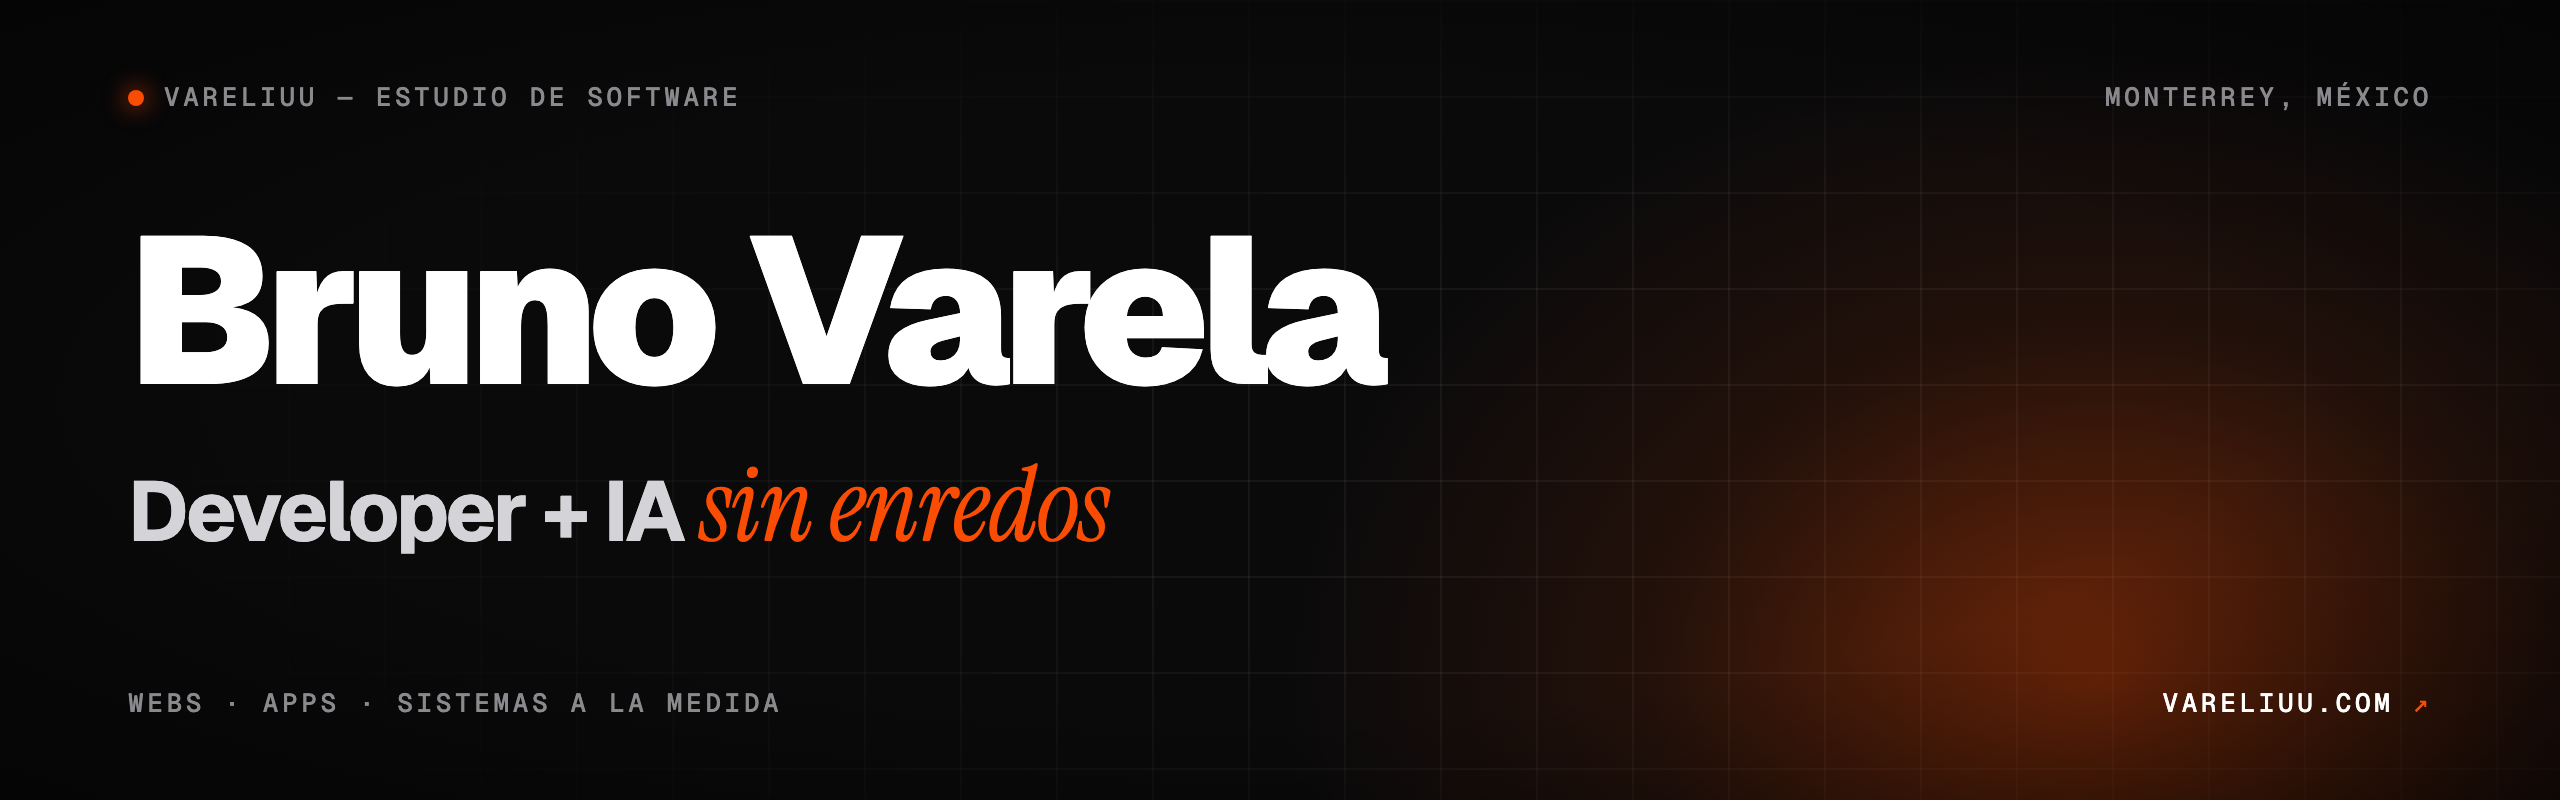
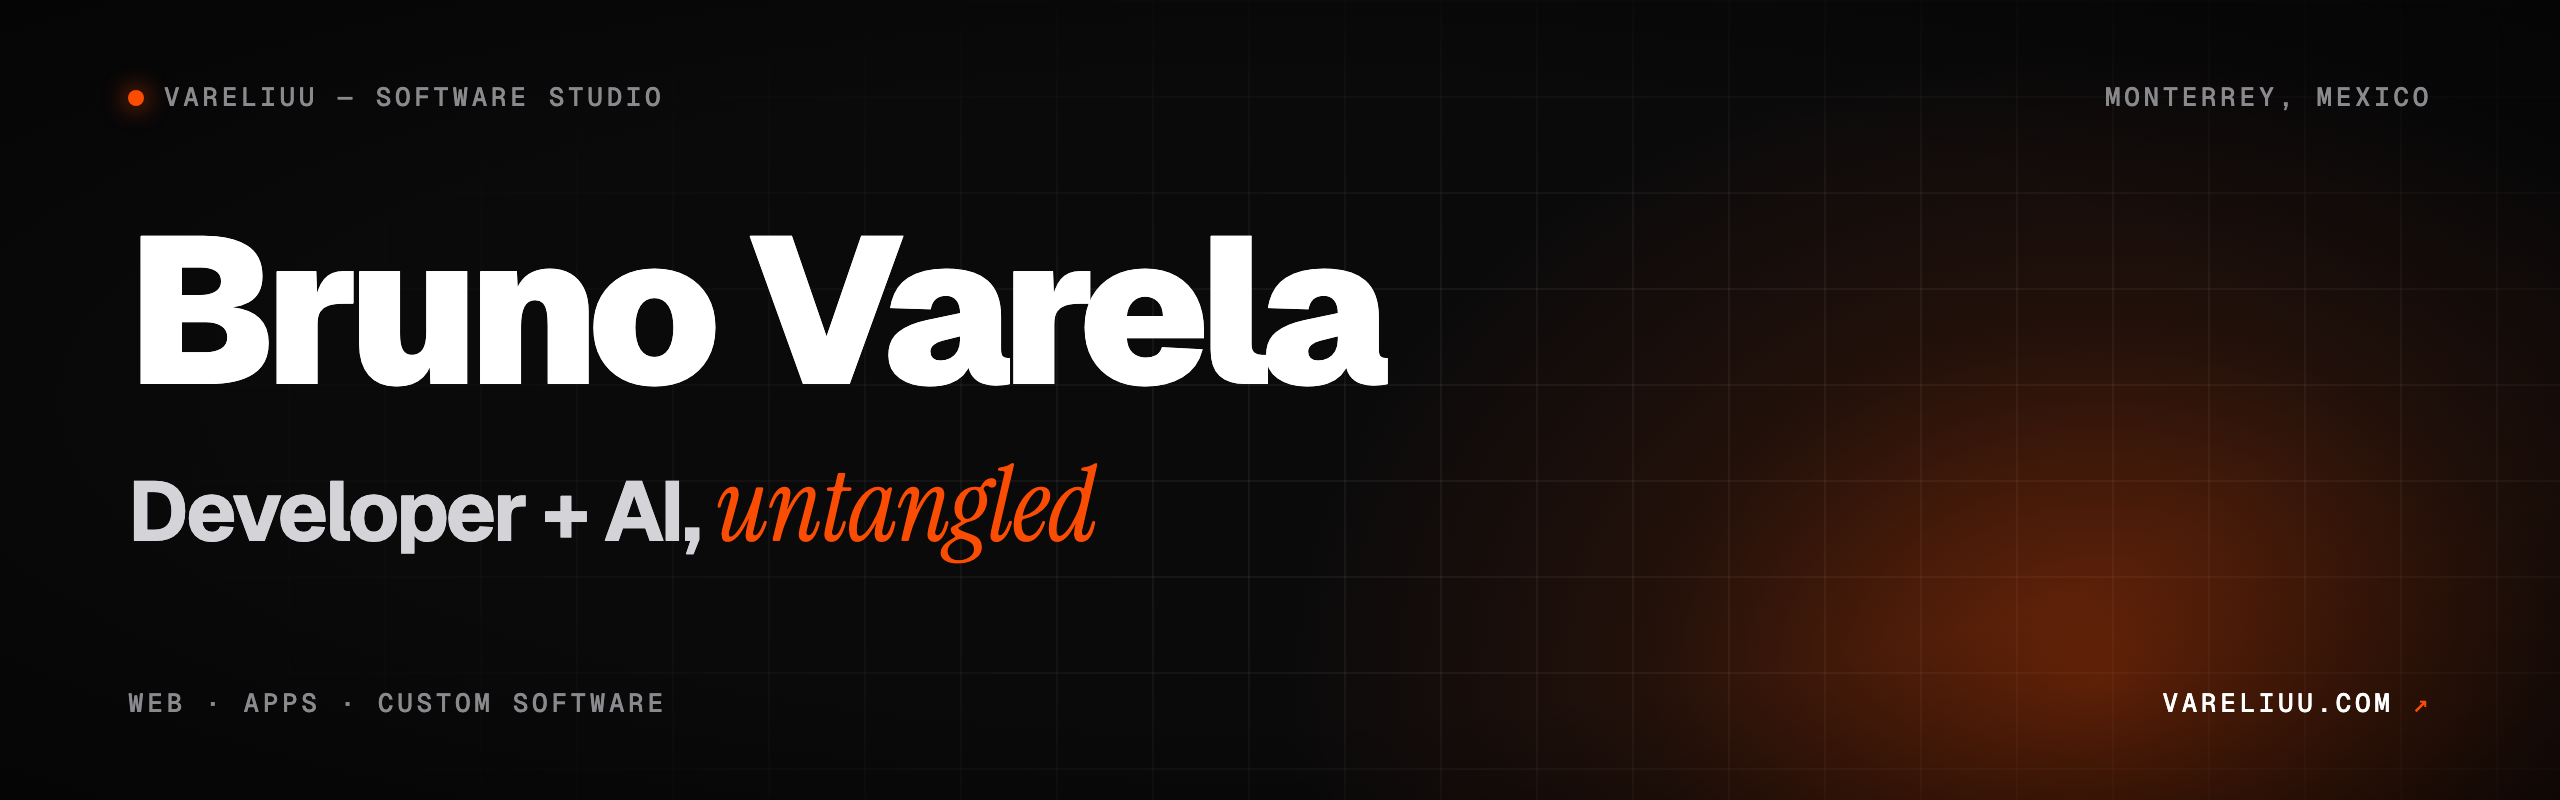
Perfil en inglés
El README, el banner y la sección de Chatty pasan a inglés. El banner de
Chatty ya lleva el letrero y vive en este repo, así no depende de que se
integre el PR de Chatty.

Changed region(s): [[0.2188, 0.5625, 0.4375, 0.6875], [0.0938, 0.8438, 0.3125, 0.9062], [0.1562, 0.0938, 0.2812, 0.1562]]

diff --git a/README.md b/README.md
@@ -1,31 +1,30 @@
-<img alt="Bruno Varela: Developer + IA sin enredos. Fundador de Vareliuu, estudio de software en Monterrey, México" src="banner.png" width="100%">
+<img alt="Bruno Varela: Developer + AI, untangled. Founder of Vareliuu, a software studio in Monterrey, Mexico" src="banner.png" width="100%">
 
-## Hola, soy Bruno 👋
+## Hi, I'm Bruno 👋
 
-Fundé **[Vareliuu](https://vareliuu.com)**, un estudio de software en Monterrey 🇲🇽. Hago webs,
-apps y sistemas a la medida para negocios, de la idea a producción en unas semanas. En Instagram
-comparto **IA sin enredos**: cómo construyo con Claude y otras herramientas, sin humo.
+I founded **[Vareliuu](https://vareliuu.com)**, a software studio in Monterrey, Mexico 🇲🇽. I build
+websites, apps and custom software for businesses, from idea to production in a few weeks. On
+Instagram I share **AI, untangled** (in Spanish): how I build with Claude and other tools, no hype.
 
-- 🔭 **Ahora:** [Chatty](https://github.com/brunovareliuu/chatty), tu propio ManyChat para Instagram, open source.
-- 🛠 **Con qué:** React, Next.js y TypeScript sobre Firebase; apps móviles con Expo.
-- 🤖 **Cómo:** con IA todos los días, del diseño al despliegue.
-- 💬 **Dónde:** [vareliuu.com](https://vareliuu.com) · [Instagram](https://www.instagram.com/brunovareliuu)
+- 🔭 **Now:** [Chatty](https://github.com/brunovareliuu/chatty), your own ManyChat for Instagram, open source.
+- 🛠 **Stack:** React, Next.js and TypeScript on Firebase; mobile apps with Expo.
+- 🤖 **How:** with AI every day, from design to deploy.
+- 💬 **Where:** [vareliuu.com](https://vareliuu.com) · [Instagram](https://www.instagram.com/brunovareliuu)
 
 ## Open source
 
 <a href="https://github.com/brunovareliuu/chatty">
   <picture>
-    <source media="(prefers-color-scheme: dark)" srcset="https://raw.githubusercontent.com/brunovareliuu/chatty/main/docs/imagenes/banner-oscuro.png">
-    <img alt="Chatty: tu propio ManyChat para Instagram" src="https://raw.githubusercontent.com/brunovareliuu/chatty/main/docs/imagenes/banner-claro.png" width="100%">
+    <source media="(prefers-color-scheme: dark)" srcset="chatty-oscuro.png">
+    <img alt="Chatty: your own ManyChat for Instagram" src="chatty-claro.png" width="100%">
   </picture>
 </a>
 
-**[Chatty](https://github.com/brunovareliuu/chatty)**: la bandeja de tus DMs, automatizaciones por
-palabra clave, un constructor visual de flujos y las estadísticas de tu Instagram, en **tu**
-Firebase. Se abre en modo guía, sin configurar nada, y te lleva paso a paso hasta dejarlo
-funcionando.
+**[Chatty](https://github.com/brunovareliuu/chatty)**: an inbox for your DMs, keyword automations,
+a visual flow builder and your Instagram analytics, on **your** Firebase. It opens in guided mode
+with nothing configured and walks you step by step until it's live.
 
-## Con qué trabajo
+## Tech I use
 
 ![React](https://img.shields.io/badge/React-20232A?logo=react&logoColor=61DAFB)
 ![Next.js](https://img.shields.io/badge/Next.js-000000?logo=nextdotjs&logoColor=white)
@@ -42,5 +41,5 @@ funcionando.
 ---
 
 <p align="center">
-  <b>¿Tienes un proyecto en mente?</b> <a href="https://vareliuu.com/cotizar">Cotízalo en vareliuu.com</a> ↗
+  <b>Got a project in mind?</b> <a href="https://vareliuu.com/cotizar">Get a quote at vareliuu.com</a> ↗
 </p>
